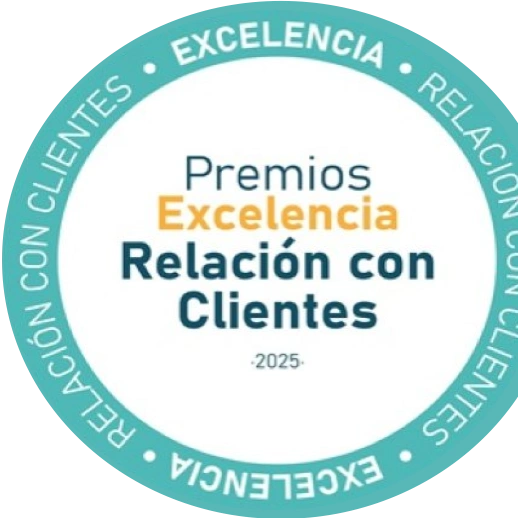
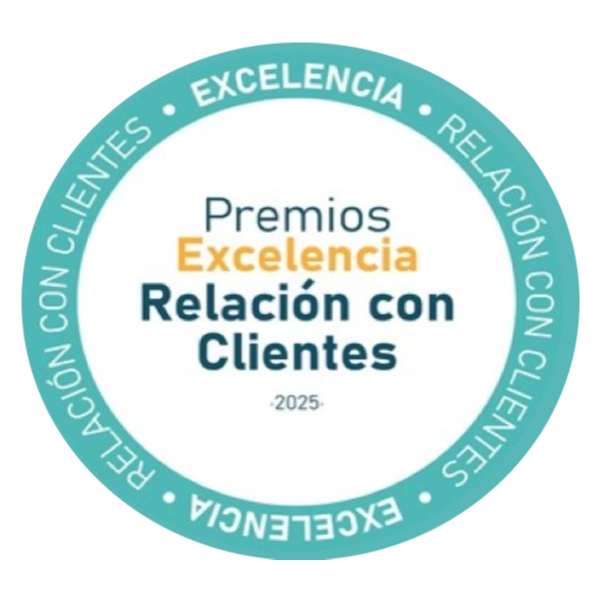
Fix footer award seal cropping

diff --git a/src/components/home/Footer.tsx b/src/components/home/Footer.tsx
@@ -67,7 +67,7 @@ export function Footer() {
                 src="/doobot/premio-excelencia-sello-footer.webp"
                 alt="Premios Excelencia Relación con Clientes 2025 - Mejor Producto Tecnológico"
                 loading="lazy"
-                className="h-[102px] w-[102px] sm:h-[122px] sm:w-[122px] object-contain shrink-0 drop-shadow-md transition-transform group-hover:scale-105"
+                className="h-[110px] w-[110px] sm:h-[130px] sm:w-[130px] object-contain shrink-0 drop-shadow-md transition-transform group-hover:scale-105"
               />
               <div className="flex flex-col justify-center text-[#1c2333] text-left">
                 <span className="font-display font-bold text-[17px] sm:text-[19px] text-[#050547] leading-[1.25] tracking-tight group-hover:text-indigo-950 transition-colors">
